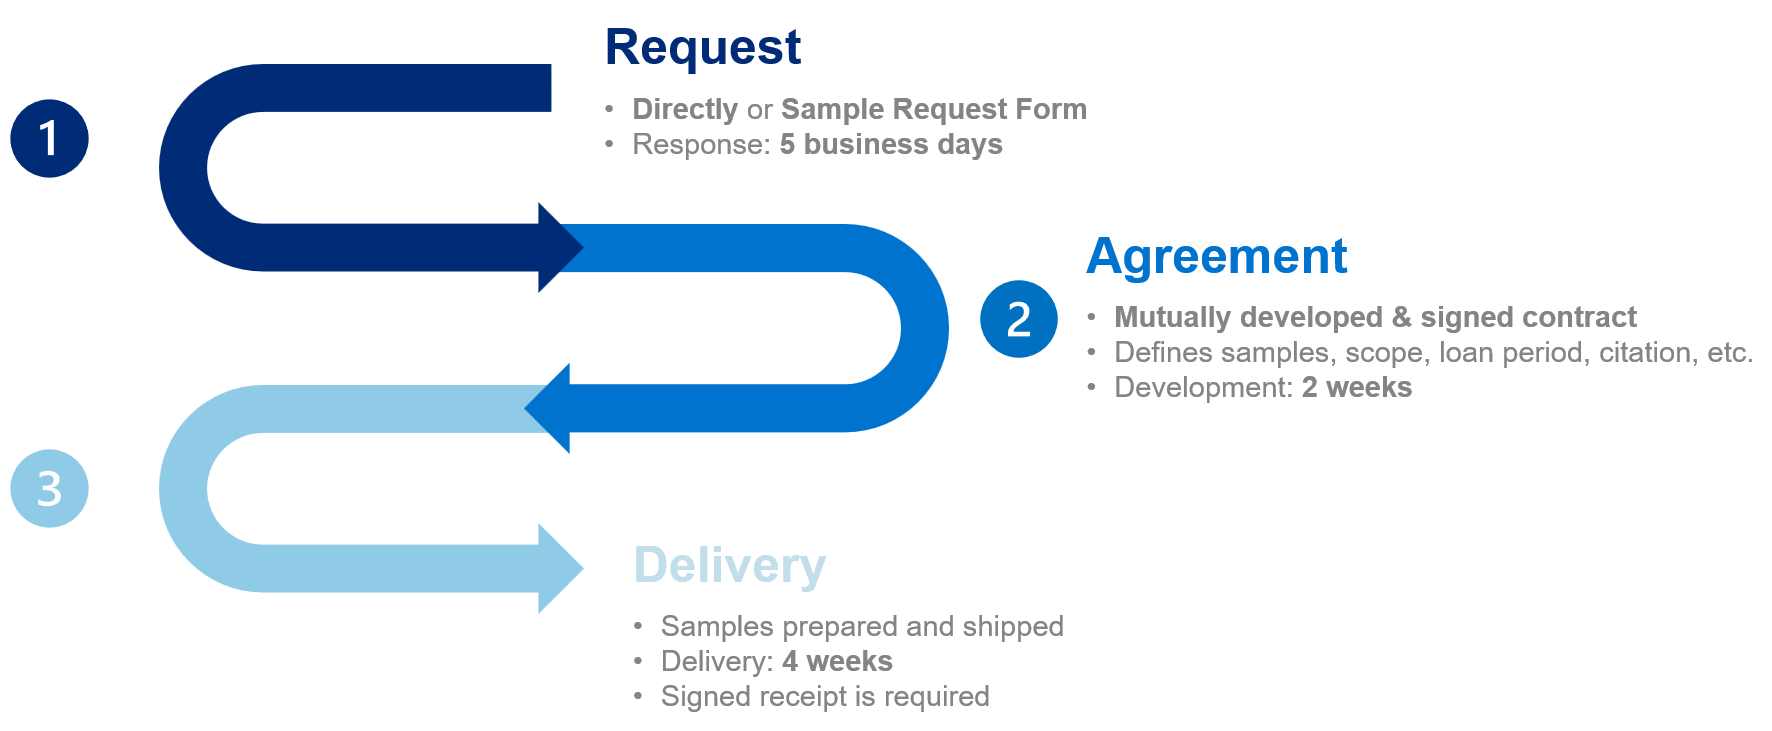
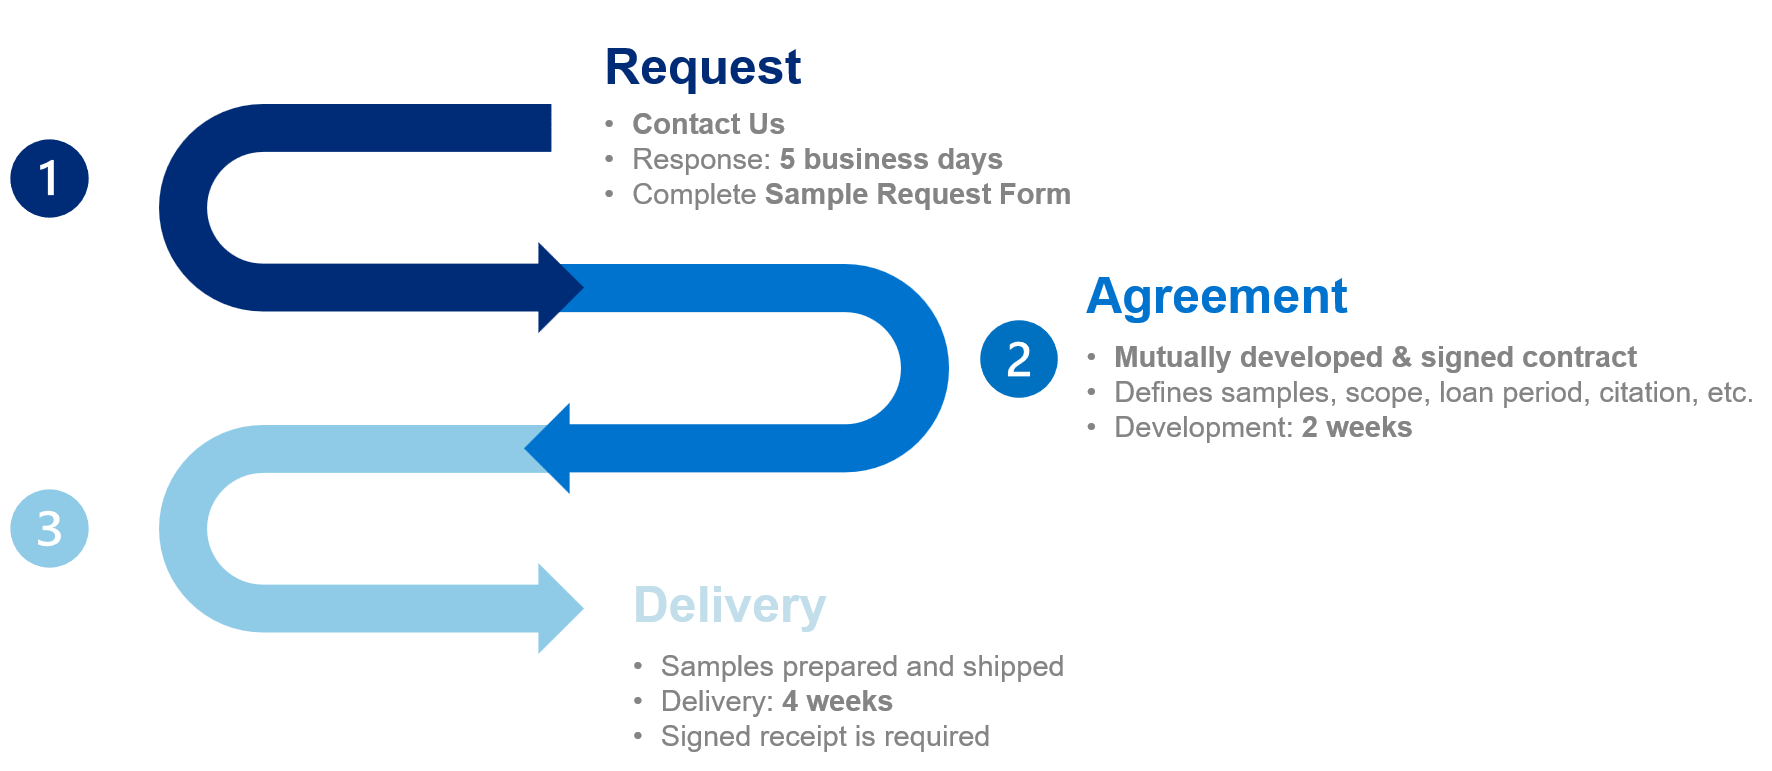
update image and more text adjustments

diff --git a/misc/sampleguidelines.php b/misc/sampleguidelines.php
@@ -35,7 +35,7 @@ header("Content-Type: text/html; charset=" . $CHARSET);
 	<h1 style="text-align:center;">Sample Use Procedures and Requirements</h1>
 
 	<article>
-		<p>NEON Biorepository samples and specimens and their associated data are available for a wide variety of research and educational purposes. Anyone interested in requesting samples may do so. Most requests are fulfilled at no cost; however, unusually large requests or those requiring substantial additional processing may incur fees. You can browse NEON samples via the <a href="https://biorepo.neonscience.org/portal/neon/search/index.php" target="_blank" rel="noopener noreferrer">NEON Sample Portal</a> and initiate inquiries about using samples in your work by <a href="https://www.neonscience.org/about/contact-neon-biorepository" target="_blank" rel="noopener noreferrer">contacting us</a>.</p>
+		<p>NEON Biorepository samples and specimens and their associated data are available for a wide variety of research and educational purposes. Anyone interested in requesting samples may do so. Most requests are fulfilled at no cost; however, unusually large requests or those requiring substantial additional processing may incur fees. You can browse NEON samples via the <a href="https://biorepo.neonscience.org/portal/collections/misc/browsecollprofiles.php" target="_blank"">Sample Type Browser</a> or <a href="https://biorepo.neonscience.org/portal/neon/search/index.php" target="_blank">NEON Sample Portal</a> and initiate inquiries about using samples in your work by <a href="https://www.neonscience.org/about/contact-neon-biorepository" target="_blank">contacting us</a> directly.</p>
 	</article>
 		
 	<ol>
@@ -54,7 +54,7 @@ header("Content-Type: text/html; charset=" . $CHARSET);
 			
 			<img src="images/loan_process.png" alt="Sample loan process" style="max-width: 100%; height: auto; margin: 1rem 0;">
 
-			<p>To request samples or learn more about what samples are available for use, <a href="https://www.neonscience.org/about/contact-neon-biorepository" target="_blank" rel="noopener noreferrer">contact us</a>. We will follow up to obtain additional information required for approval within five business days.</p>
+			<p>To request samples or learn more about what samples are available for use, you may either browse the <a href="https://biorepo.neonscience.org/portal/collections/misc/browsecollprofiles.php" target="_blank"">Sample Type Browser</a> or <a href="https://biorepo.neonscience.org/portal/neon/search/index.php" target="_blank">NEON Biorepository Sample Portal</a> and initiate inquiries by <a href="https://www.neonscience.org/about/contact-neon-biorepository" target="_blank">contacting us</a> directly. We will follow up within five business days to assist you in identifying appropriate samples and submitting a <a href="https://asu.co1.qualtrics.com/jfe/form/SV_bfPgKtTfHTyzffg" target="_blank">Sample Loan Request</a>.</p>
 
 			<p>All requests are evaluated via the <a href="#sample-use-approval-process">Sample Use Approval Process</a>, subject to the <a href="#sample-use-policy">Sample Use Policy</a>. <b><i>All requests require a mutually developed and signed Sample Use Agreement prior to sample processing and shipment or access.</i></b> Researchers should allow approximately two weeks for development and finalization of the Sample Use Agreement. Significantly more time may be required if the request may involve hiring additional personnel.</p>
 
@@ -66,7 +66,7 @@ header("Content-Type: text/html; charset=" . $CHARSET);
 		<article>
 			<h2 class="anchor" id="funding-proposals-and-letters-of-collaboration-or-support">Funding Proposals and Letters of Collaboration or Support</h2>
 
-			<p>Although funding is not required to use NEON samples, please <a href="https://www.neonscience.org/about/contact-neon-biorepository" target="_blank" rel="noopener noreferrer">contact us</a> at least two weeks in advance of internal deadlines for submitting any grant proposals involving NEON samples. Note that significantly more time may be required for  proposed work that would involve hiring additional personnel. The NEON Biorepository requires this time in order to:</p>
+			<p>Although funding is not required to use NEON samples, please <a href="https://www.neonscience.org/about/contact-neon-biorepository" target="_blank" rel="noopener noreferrer">contact us</a> at least two weeks in advance of internal deadlines for submitting any grant proposals involving NEON samples. Note that significantly more time may be required for proposed work that would involve hiring additional personnel. The NEON Biorepository requires this time in order to:</p>
 
 			<ul>
 				<li>Evaluate whether available samples are suitable for the proposed work</li>
@@ -75,7 +75,7 @@ header("Content-Type: text/html; charset=" . $CHARSET);
 				<li>Provide quotes for service fees, if applicable</li>
 			</ul>
 
-			<p>For programs that allow the submission of letters of support or collaboration, researchers should obtain these from the NEON Biorepository directly if NEON samples will be used in the proposed research. Letters regarding samples are considered separate from those provided by <a href="https://www.neonscience.org/resources/research-support" target="_blank" rel="noopener noreferrer">NEON Research Support Services</a>.</p>
+			<p>For programs that allow the submission of letters of support or collaboration, researchers should obtain these from the NEON Biorepository directly if NEON samples will be used in the proposed research. Letters regarding samples are considered separate from those provided by <a href="https://www.neonscience.org/resources/research-support" target="_blank">NEON Research Support Services</a>.</p>
 		</article>
 
 		<article>
@@ -117,9 +117,9 @@ header("Content-Type: text/html; charset=" . $CHARSET);
 		<article>
 			<h2 class="anchor" id="sample-use-approval-process">Sample Use Approval Process</h2>
 
-			<p>After submitting an initial inquiry, we will reach out within 5 business days to begin co-developing a sample list and Sample Use Agreement. Please allow at least two weeks to complete the approval process. More time will be required if it is necessary to hire additional personnel</p>
+			<p>After submitting an initial inquiry, we will reach out within 5 business days to begin co-developing a sample list and Sample Use Agreement. Please allow at least two weeks to complete the approval process. More time will be required if it is necessary to hire additional personnel.</p>
 
-			<p>Sample uses can be non-invasive, invasive, consumptive, or destructive. Non-invasive use means does not materially affect the condition or future availability of a sample; invasive alters a sample in a manner that may affect subsequent applications; consumptive use depletes a portion of a sample; and destructive use renders a sample unavailable for further use.</p>
+			<p>Sample uses can be non-invasive, invasive, consumptive, or destructive. Non-invasive use does not materially affect the condition or future availability of a sample; invasive alters a sample in a manner that may affect subsequent applications; consumptive use depletes a portion of a sample; and destructive use renders a sample unavailable for further use.</p>
 
 			<p>While any type of use is permissible, requests involving substantial destructive or consumptive use require additional review as a part of the approval process. All requests are evaluated on a case-by-case basis; however, each sample type has guidelines regarding the amount of destructive and consumptive use that can be supported for a single project and the minimum number of samples that must be retained for long term archive. Requests that involve destructive or significant consumptive use exceeding those guidelines require strong justification and may be subject to external review.</p>
 
@@ -127,7 +127,7 @@ header("Content-Type: text/html; charset=" . $CHARSET);
 
 			<p>In cases where overlapping requests require destructive, consumptive, or invasive use of samples, priority will be research sponsored by the NSF Biological Sciences Directorate, followed by other NSF-sponsored research and finally non-NSF funded research, outreach, or education uses.</p>
 
-			<p>Loans are typically approved for 6-12 months. Extensions requested before the current loan period expires will generally be approved except when the samples have been requested by other researchers.</p>
+			<p>Loans are typically approved for 6-12 months. Extensions requested before the current loan period expires will generally be approved except when the samples have been requested by other researchers. Failure to return samples within the approved loan period or to maintain communication regarding their status may affect eligibility for future sample requests.</p>
 		</article>
 		
 		<article>

diff --git a/misc/cite.php b/misc/cite.php
@@ -76,7 +76,9 @@ header("Content-Type: text/html; charset=" . $CHARSET);
 		<article>
 			<h3 class="anchor" id="h.3">Citation Requirements for Data-Only Use</h3>
 
-			<p>NEON sample data is offered under the Creative Commons Attribution (<a href="https://creativecommons.org/licenses/by/4.0/" target="_blank" rel="noopener noreferrer">CC BY 4.0</a>) license. Attribution is required when you use NEON data, including a link to the license and an indication of any changes. Records in the <a href="../neon/search/index.php" target="_blank" rel="noopener noreferrer">NEON Biorepository Sample Portal</a> are periodically updated based on ingestion of the most up-to-date NEON data and are, in many cases, supplemented with value-added data obtained from further analysis. Because these records are updated on a rolling basis and are not tied to a specific NEON data release, NEON Biorepository sample data should be considered subject to change and <strong>treated as provisional</strong>. Citations of these data should therefore follow <a href="https://www.neonscience.org/data-samples/guidelines-policies/citing#citing-data" target="_blank" rel="noopener noreferrer">NEON guidance for provisional data</a>, applied to the relevant Biorepository sample types.</p>
+			<p>NEON sample data is offered under the Creative Commons Attribution (<a href="https://creativecommons.org/licenses/by/4.0/" target="_blank" rel="noopener noreferrer">CC BY 4.0</a>) license. Attribution is required when you use NEON data, including a link to the license and an indication of any changes.</p>
+			
+			<p>Records in the <a href="../neon/search/index.php" target="_blank" rel="noopener noreferrer">NEON Biorepository Sample Portal</a> are periodically updated based on ingestion of the most up-to-date NEON data and are, in many cases, supplemented with value-added data obtained from further analysis. Because these records are updated on a rolling basis and are not tied to a specific NEON data release, NEON Biorepository sample data should be considered subject to change and <strong>treated as provisional</strong>. Citations of these data should therefore follow <a href="https://www.neonscience.org/data-samples/guidelines-policies/citing#citing-data" target="_blank" rel="noopener noreferrer">NEON guidance for provisional data</a>, applied to the relevant Biorepository sample types.</p>
 
 			<p>For each sample type used:</p>
 
@@ -84,14 +86,14 @@ header("Content-Type: text/html; charset=" . $CHARSET);
 			<blockquote>
 				NEON (National Ecological Observatory Network) Biorepository. Mammal Collection (Ear Tissue). Data accessed from
 				<a href="https://biorepo.neonscience.org/portal/collections/misc/neoncollprofiles.php?collid=25" target="_blank" rel="noopener noreferrer">https://biorepo.neonscience.org/portal/collections/misc/neoncollprofiles.php?collid=25</a>
-				on [DATE ACCESSED]. Data archived at [your DOI].
+				on [DATE ACCESSED]. Licensed under CC BY 4.0 (<a href="https://creativecommons.org/licenses/by/4.0/" target="_blank">https://creativecommons.org/licenses/by/4.0/</a>). Data were filtered and reformatted for analysis. Data archived at [your DOI].
 			</blockquote>
 
 			<p><b>For sample data which have not been saved to a repository (not recommended):</b></p>
 			<blockquote>
 				NEON (National Ecological Observatory Network) Biorepository. Mammal Collection (Ear Tissue). Data accessed from
-				<a href="https://biorepo.neonscience.org/portal/collections/misc/neoncollprofiles.php?collid=25" target="_blank" rel="noopener noreferrer">https://biorepo.neonscience.org/portal/collections/misc/neoncollprofiles.php?collid=25</a>
-				on [DATE ACCESSED].
+				<a href="https://biorepo.neonscience.org/portal/collections/misc/neoncollprofiles.php?collid=25" target="_blank">https://biorepo.neonscience.org/portal/collections/misc/neoncollprofiles.php?collid=25</a>
+				on [DATE ACCESSED]. Licensed under CC BY 4.0 (<a href="https://creativecommons.org/licenses/by/4.0/" target="_blank">https://creativecommons.org/licenses/by/4.0/</a>). No changes were made.
 			</blockquote>
 
 			<p>If additional data are obtained directly from the <a href="https://data.neonscience.org/data-products/explore" target="_blank" rel="noopener noreferrer">NEON Data Portal</a> (e.g., via download, API access, or programmatic tools), the relevant NEON Data Product(s) must also be cited in accordance with NEON data citation guidance, including the appropriate release DOI or provisional data citation.</p>
